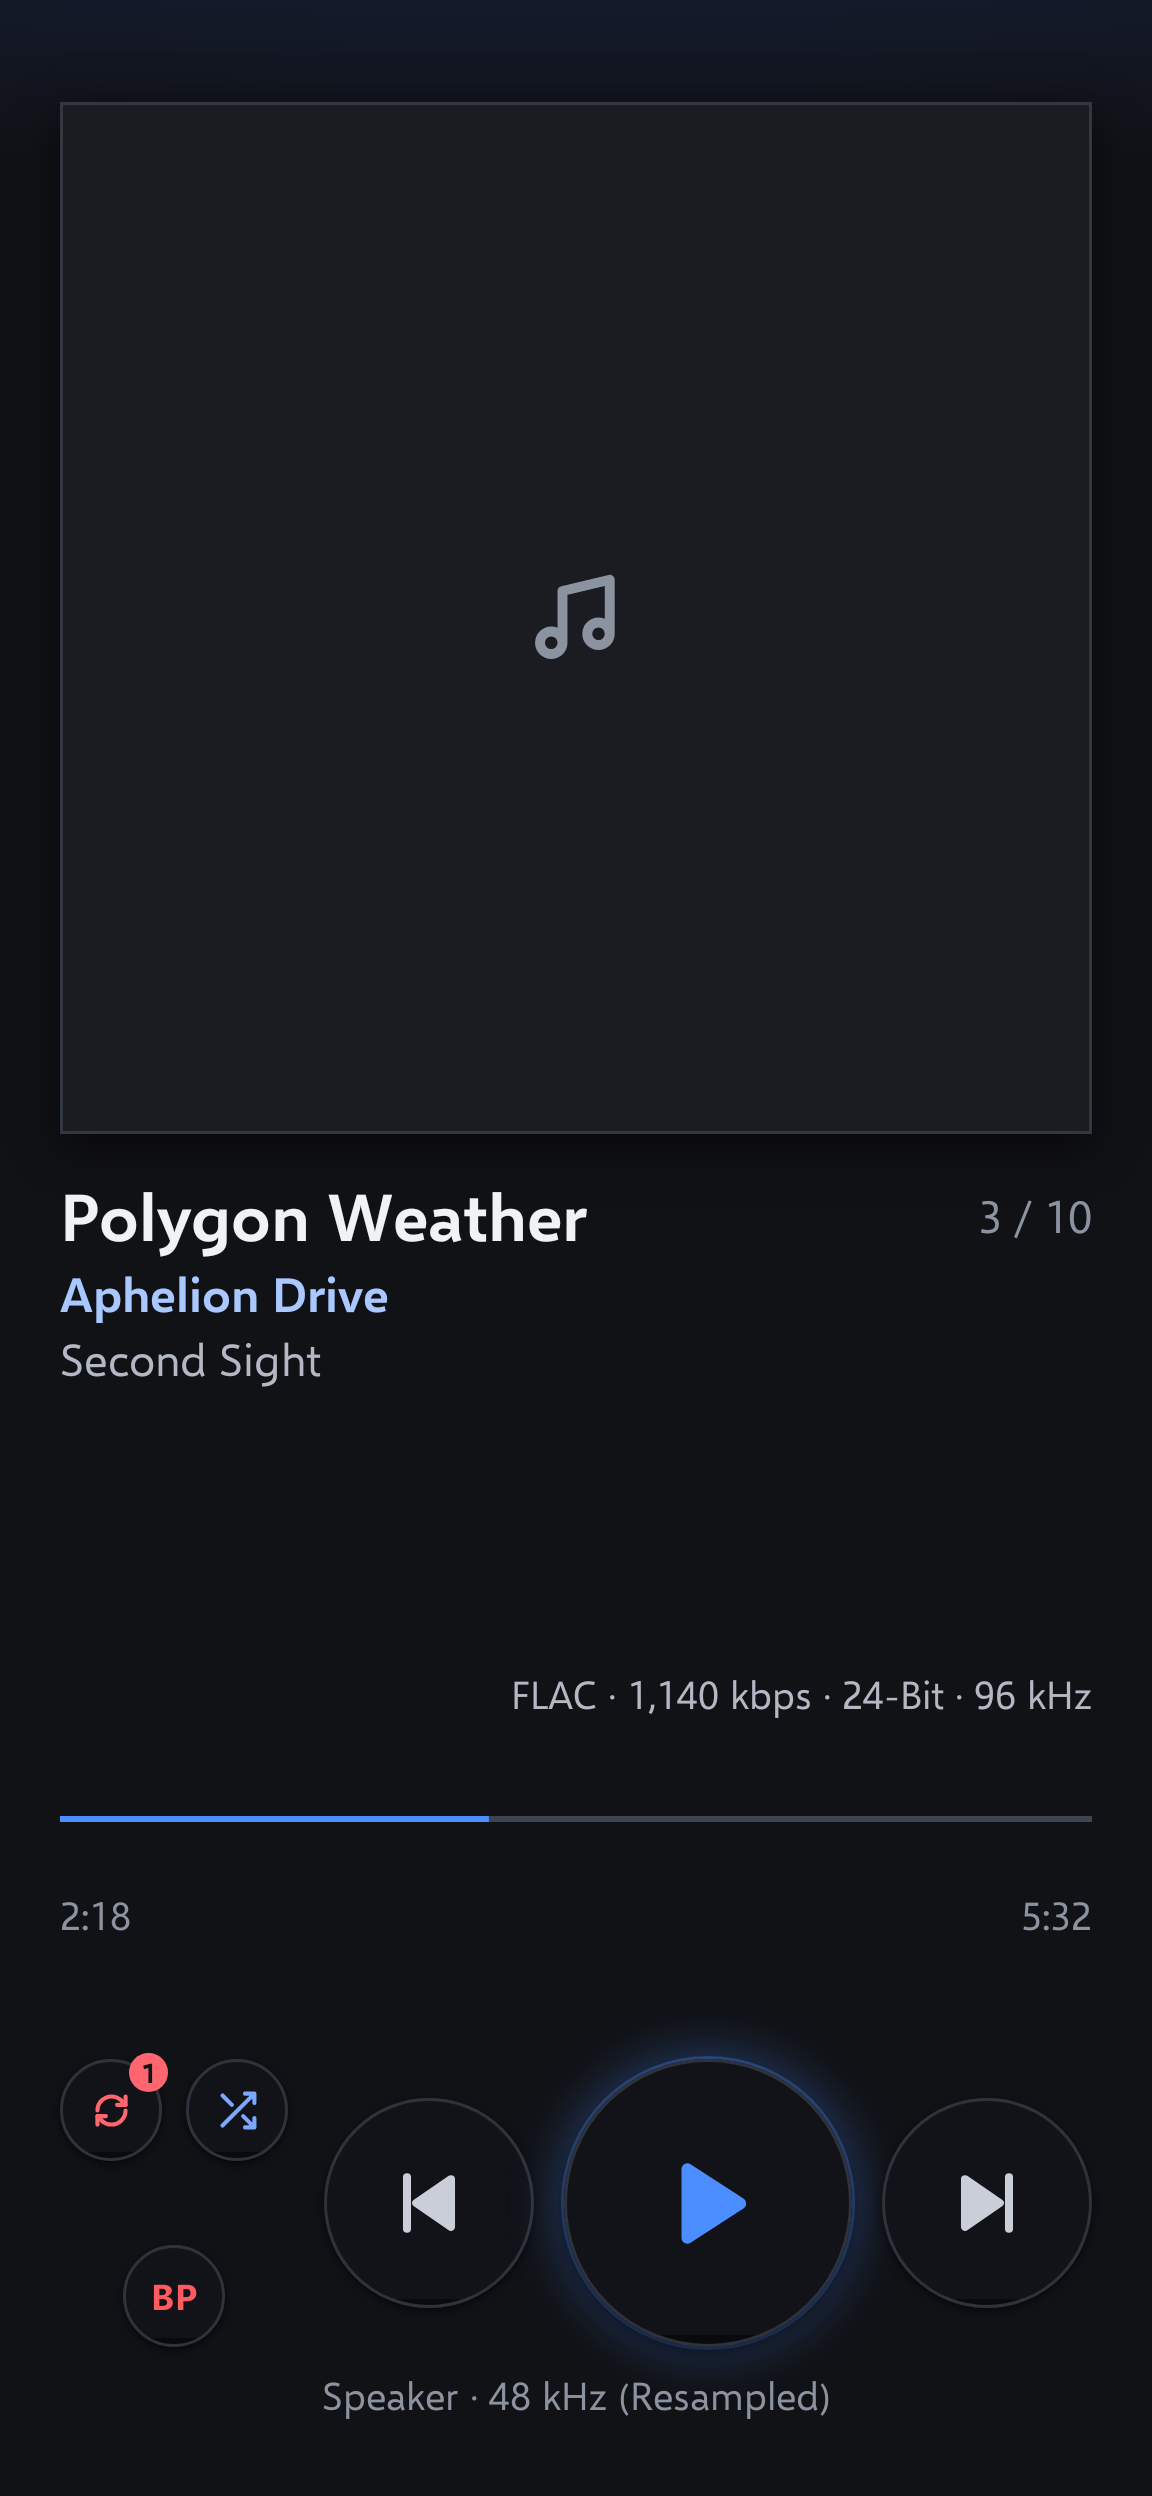
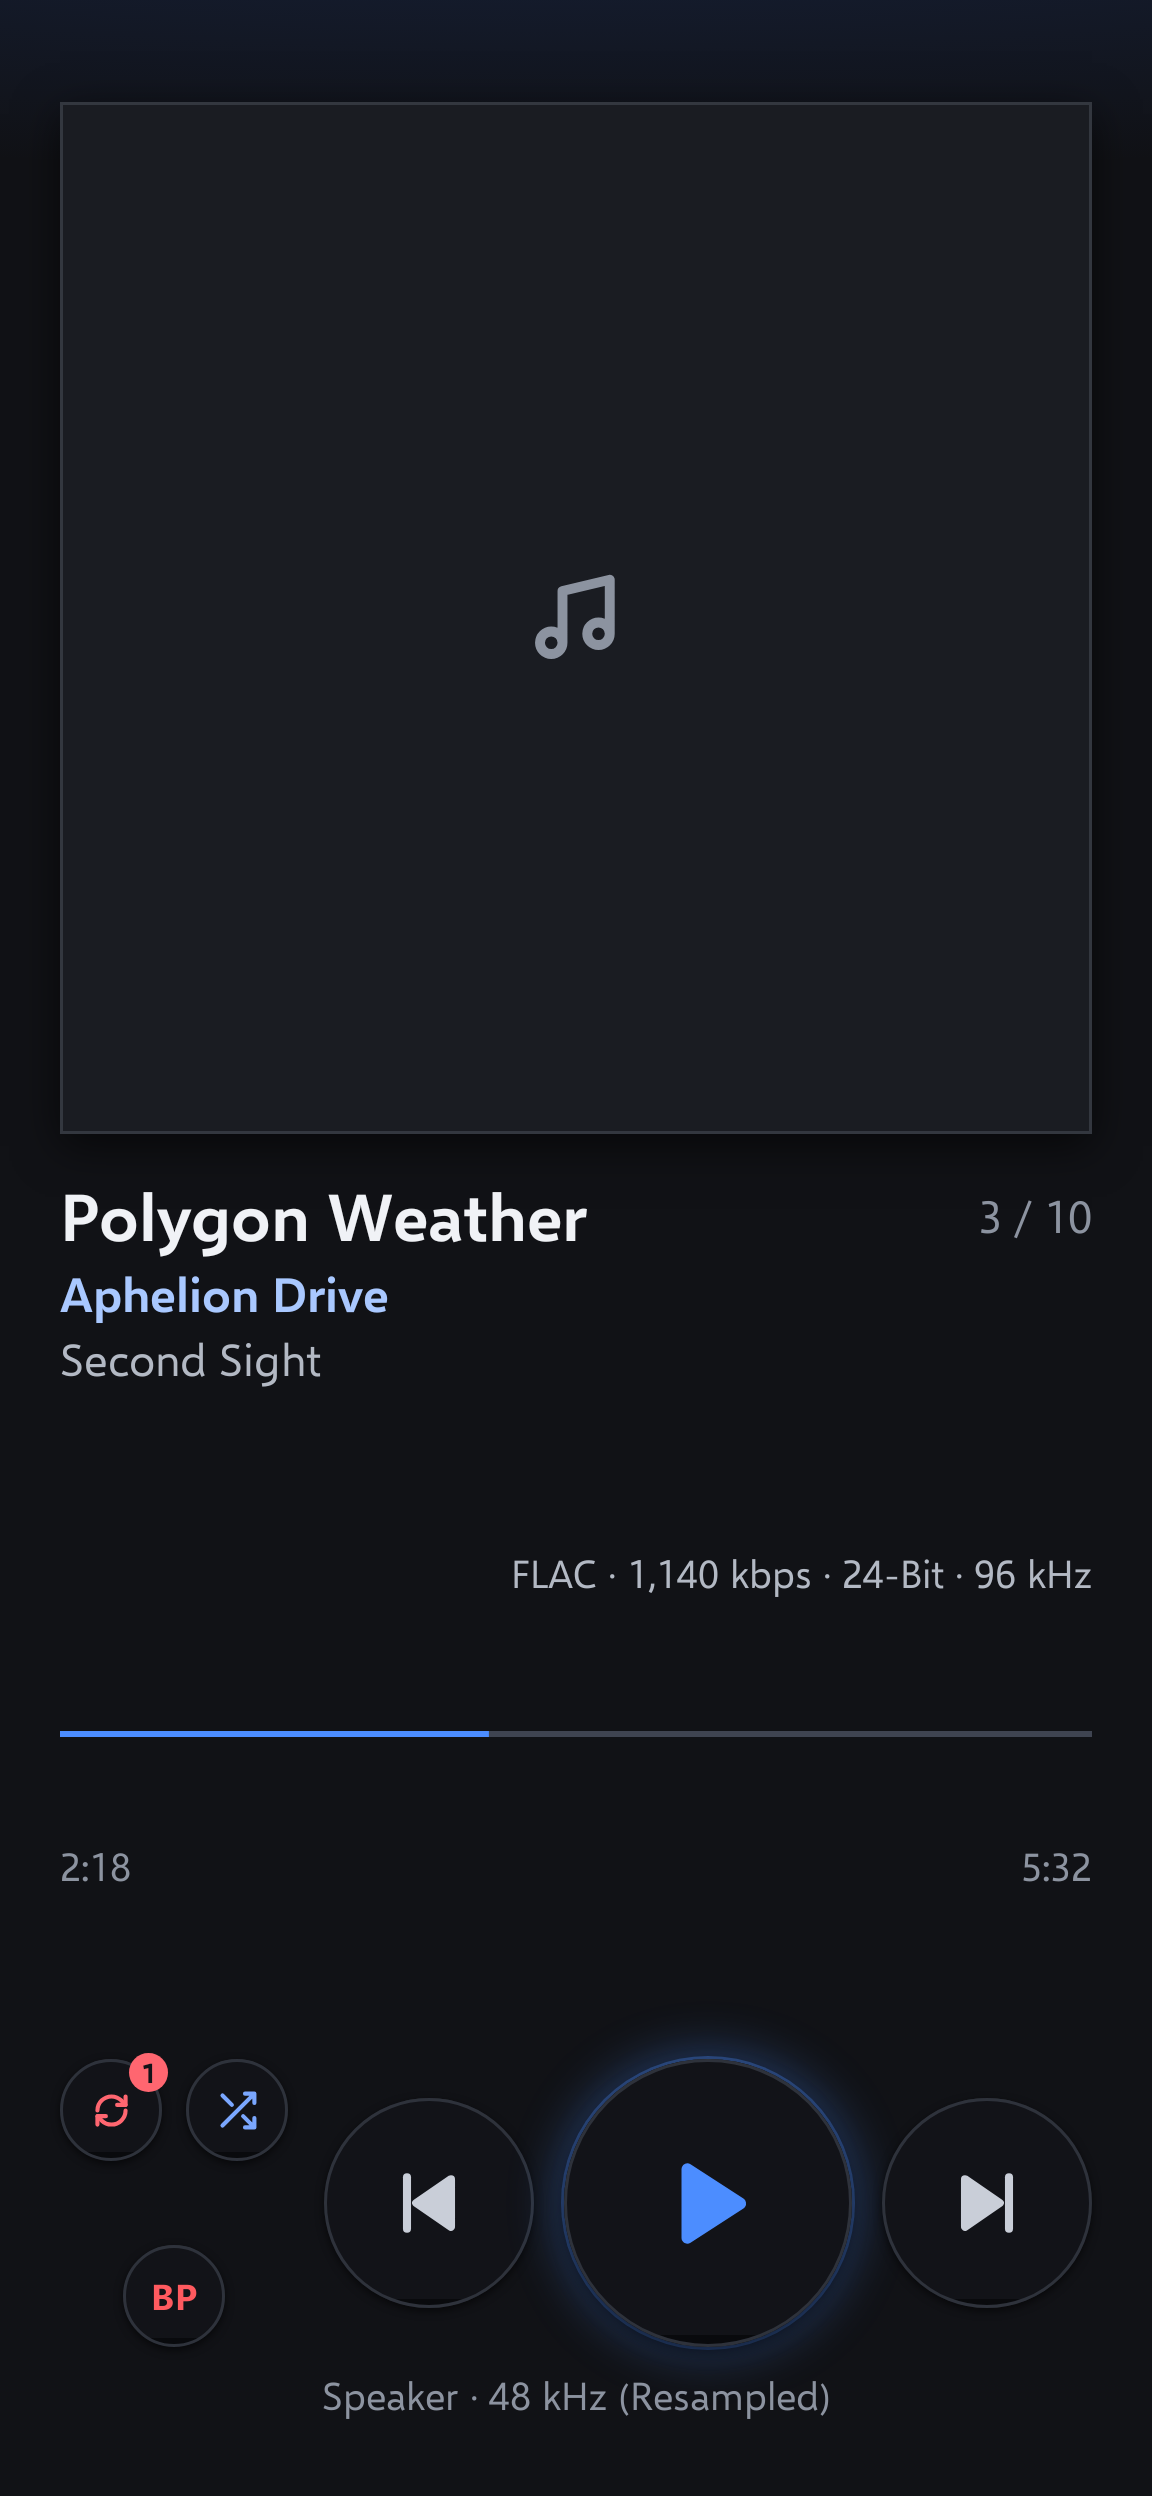
Now Playing on the S24: spread the spare height, grow the waveform
The S24's cover is limited by its width, so the height it can't use
(about 120 dp) all went to the flexible spaces, mostly over the quality
line. That spare height now grows the waveform to 64 dp and evens the
two gaps. It is 0 wherever the height limits the cover, so the M21 is
unchanged (its pictures are pixel-identical).

diff --git a/app/src/main/java/com/mpaulrenlund/audiofool/ui/NowPlayingScreen.kt b/app/src/main/java/com/mpaulrenlund/audiofool/ui/NowPlayingScreen.kt
@@ -106,7 +106,16 @@ fun NowPlayingScreen(nowPlaying: NowPlaying, actions: NowPlayingActions) {
             // The reserve holds artReserveText of text, which grows with Android's font size (session 5: at 1.3 the
             // M21 lost the readout off the bottom).
             val textGrowth = t.dp("nowPlaying.artReserveText") * (LocalDensity.current.fontScale - 1f).coerceAtLeast(0f)
-            val art = minOf(maxWidth - padX * 2, screenHeight - t.dp("nowPlaying.artHeightReserve") - textGrowth)
+            val heightForArt = screenHeight - t.dp("nowPlaying.artHeightReserve") - textGrowth
+            val art = minOf(maxWidth - padX * 2, heightForArt)
+            // Spare height (0.2.3, the user's call): where the width limits the cover (the S24), the height it
+            // can't use. The waveform takes a share and the space below the times grows toward the space above,
+            // so it isn't one gap over the quality line. None on the M21, which stays as it was.
+            val spare = (heightForArt - art).coerceAtLeast(Dp(0f))
+            val waveformGrowth = minOf(spare * t.number("nowPlaying.waveformGrowth.ofSpare").toFloat(), t.dp("nowPlaying.waveformGrowth.max"))
+            val aboveWeight = t.number("nowPlaying.spaceAboveQualityWeight").toFloat()
+            val belowWeight = t.number("nowPlaying.spaceBelowTimesWeight").toFloat()
+            val evenness = (spare / t.dp("nowPlaying.spareEvenAt")).coerceIn(0f, 1f)
 
             Column(Modifier.fillMaxSize()) {
                 SwipeToSkip(track, art, actions) {
@@ -115,12 +124,12 @@ fun NowPlayingScreen(nowPlaying: NowPlaying, actions: NowPlayingActions) {
                     }
                     TitleBlock(nowPlaying, track)
                 }
-                Spacer(Modifier.weight(t.number("nowPlaying.spaceAboveQualityWeight").toFloat()))
+                Spacer(Modifier.weight(aboveWeight))
                 Column(Modifier.padding(horizontal = padX)) {
                     track?.let { Quality(it) }
-                    Seekbar(nowPlaying, actions.seek)
+                    Seekbar(nowPlaying, actions.seek, t.dp("nowPlaying.waveformHeight") + waveformGrowth)
                 }
-                Spacer(Modifier.weight(t.number("nowPlaying.spaceBelowTimesWeight").toFloat()))
+                Spacer(Modifier.weight(belowWeight + (aboveWeight - belowWeight) * evenness))
                 Controls(nowPlaying, actions, screenHeight)
                 Line(
                     nowPlaying.readout,
@@ -285,7 +294,8 @@ private fun Quality(track: Track) {
 }
 
 /**
- * The waveform seekbar (spec 5): full width, `waveformHeight` tall, the track's
+ * The waveform seekbar (spec 5): full width, [height] tall (`waveformHeight`, more
+ * with spare height), the track's
  * waveform as `waveformBars` hard-edged bars centred on the middle line, the
  * played part `slider.seekFill`, the rest `slider.track`, split at the exact
  * place so it glides while playing. Until the waveform is
@@ -294,7 +304,7 @@ private fun Quality(track: Track) {
  * sit under it.
  */
 @Composable
-private fun Seekbar(nowPlaying: NowPlaying, seek: (Long) -> Unit) {
+private fun Seekbar(nowPlaying: NowPlaying, seek: (Long) -> Unit, height: Dp) {
     val t = LocalAppTheme.current
     val duration = nowPlaying.durationMs
     // Read every frame while playing, and only then; the rest of the screen doesn't
@@ -317,7 +327,7 @@ private fun Seekbar(nowPlaying: NowPlaying, seek: (Long) -> Unit) {
         Modifier
             .fillMaxWidth()
             .padding(top = t.dp("nowPlaying.waveformTop"))
-            .height(t.dp("nowPlaying.waveformHeight"))
+            .height(height)
             .pointerInput(duration) {
                 if (duration <= 0) return@pointerInput
                 detectTapGestures { offset -> seek((offset.x / size.width * duration).toLong().coerceIn(0, duration)) }

diff --git a/design/android-spec.md b/design/android-spec.md
@@ -117,11 +117,11 @@ Opens from the mini player, and when a song is tapped (in a list or in Search). 
 
 1. **Art**, square, `nowPlaying.paddingX` from each side, `nowPlaying.artTop` below the status bar. Its side is the smaller of (screen width − 40) and (screen height − `artHeightReserve`), so on the M21 it shrinks to leave the controls room. The reserve is 366 dp since 0.2.2 (426 before): the one-line quality and the shorter controls row gave the M21's cover about 60 dp more (301 dp, from 241), with the title block lower (the user's call). The S24's cover is limited by the width, so it is unchanged. `shadow.headerArt`; no border round a cover (§2, Covers).
 2. **Title** (22/600, `text.heading`), **artist** (16/600, `accent.blue`) and **album** (15, `text.secondary`), left-aligned. The **track count "3 / 10"** (15, `text.muted`) sits right of the title, aligned to its top. There's no Like button.
-3. Flexible space, weight 3.
+3. Flexible space, weight 3. **Spare height** (0.2.3, the user's call): where the width limits the cover (the S24), the height it can't use, screen height − `artHeightReserve` − the cover's side (about 120 dp on the S24, none on the M21). The waveform takes `waveformGrowth.ofSpare` of it (up to `max`), and the space at 7 grows toward weight 3, level with it at `spareEvenAt` dp of spare, so the S24 has two even gaps instead of one over the quality line. With no spare (the M21) nothing changes.
 4. **Quality**, one right-aligned line right above the seekbar (13, `text.secondary`): format, bitrate, bit depth, sample rate, "FLAC · 1,901 kbps · 24-Bit · 48 kHz" (the user's order, 0.2.2; two lines before). Lossy files have no bit depth ("MP3 · 320 kbps · 44.1 kHz"). DSD gives its rate in MHz: "DSD · 5,645 kbps · 1-Bit · 2.8 MHz" (DSD64). Anything not known is left out.
-5. **Waveform seekbar**, full width, 40 dp: the track's waveform as 96 hard-edged bars, played part `slider.seekFill`, the rest `slider.track`. The split falls at the exact place, through the bar being played, so it glides while playing (the desktop's `WaveformView`; 0.2.0, the user's report). Drag or tap to seek. Compute it as the desktop's `Waveform` does, in the background, cached per file. Until it's ready, show a flat bar `waveformFloor` high.
+5. **Waveform seekbar**, full width, 40 dp (64 on the S24, from its spare height; see 3): the track's waveform as 96 hard-edged bars, played part `slider.seekFill`, the rest `slider.track`. The split falls at the exact place, through the bar being played, so it glides while playing (the desktop's `WaveformView`; 0.2.0, the user's report). Drag or tap to seek. Compute it as the desktop's `Waveform` does, in the background, cached per file. Until it's ready, show a flat bar `waveformFloor` high.
 6. **Elapsed** left, **total** right (13, `text.muted`).
-7. Flexible space, weight 1.
+7. Flexible space, weight 1 (up to 3 with spare height; see 3).
 8. **Controls row**: on the left, three 34 dp round buttons: **Repeat** and **Shuffle** side by side, 8 dp apart, their tops level with Play/Pause's top, and **BP** centred under them, its bottom level with Play/Pause's bottom (the user's call, 0.2.2; a column of three before). On the right, for a right thumb, **Previous**, **Play/Pause** and **Next**, centred on Play/Pause. Their size follows the screen height (`nowPlaying.skipButton`, `playButton`, `transportGap`: a fraction of the screen height, between a min and max). That gives 70 / 96 / 22 dp on the S24 and about 57 / 78 / 17 dp on the M21. At least `modeToTransportGap` (12 dp) lies between the two groups; where that doesn't fit, the transport's gaps shrink (the S24: about 10 dp).
 9. **Output readout**, centred (13, `text.muted`), e.g. "Speaker · 48 kHz (Resampled)" (§6.3).
 

diff --git a/design/progress.md b/design/progress.md
@@ -37,6 +37,23 @@ The user made these while the mockups were designed (October 2026). The spec alr
 
 ## Decisions made for the build
 
+0.2.3 (2026-10-26), not yet released:
+
+- **The S24's empty space on Now Playing** (the user: "a little too much empty space on the
+  s24u"; the M21 "looks great"). The S24's cover is limited by its width, so the height it
+  can't use, about 120 dp, all went to the flexible spaces, three quarters of it over the
+  quality line. Of the options offered (spread it evenly; grow the waveform; a "Next:" line),
+  the user chose the first two and "leave the M21 as it is". Both go by the **spare height**:
+  screen height − `artHeightReserve` − the font growth − the cover's side, which is exactly
+  0 wherever the height limits the cover (the M21). The waveform grows by 0.2 of it, up to
+  24 dp (`waveformGrowth`): 64 dp on the S24. The space below the times grows from weight 1
+  toward the space above's 3, level with it at 96 dp of spare (`spareEvenAt`): on the S24
+  the gaps over the quality line and over the controls are now about 57 dp each (from about
+  97 and 42). Spec 5 updated. Tokens added to `mobile-tokens.json` → `nowPlaying`.
+- **Checked:** `:core:test`, `:app:testDebugUnitTest`, ThemeLab re-recorded: only the 12 S24
+  Now Playing pictures changed (both themes; font size 1.3 keeps the readout on screen); every
+  M21 picture is pixel-identical.
+
 0.2.2 (2026-10-25), released as pre-release [`v0.2.2`](https://github.com/mpaulrenlund/AudioFool-Android/releases/tag/v0.2.2) ("AudioFool 0.2.2", versionCode 15):
 
 - **Statistics cleaned up** (the user asked; my recommendation, their call): Statistics shows
@@ -454,6 +471,13 @@ Session 1:
 
 ## To test on the S24
 
+### 0.2.3 (Now Playing's spacing)
+
+Not yet released.
+
+- [ ] **Now Playing's spacing:** no large gap over the quality line; the space over the
+  seekbar and over the controls about even; a taller waveform, still easy to drag.
+
 ### 0.2.2 (covers, the quality line, the readout, the controls, Debug)
 
 Released 2026-10-25 as pre-release [`v0.2.2`](https://github.com/mpaulrenlund/AudioFool-Android/releases/tag/v0.2.2)
@@ -812,6 +836,14 @@ Started early (session 1, `v0.0.1`): the M21 has the SD card slot, and the full 
 - [ ] **SD card out.** With the app open, eject or remove the card: the counts stay the same, and the LIBRARY line says "Unavailable: SD card · Music (N tracks kept)". Open the app with the card still out: the same. Put it back: "Up to date", nothing removed.
 
 ## Session notes
+
+### 0.2.3 — Now Playing's spacing on the S24 (2026-10-26)
+
+**Changed:** `NowPlayingScreen.kt` (the spare height, `Seekbar`'s height), `mobile-tokens.json`
+(`waveformGrowth`, `spareEvenAt`), spec 5, the S24 Now Playing pictures.
+
+**Verified:** `:core:test`, `:app:testDebugUnitTest`, recorded pictures (M21 unchanged). Not
+yet built as a release or seen on the emulator.
 
 ### 0.2.2 — a Debug screen; covers, the quality line, the readout (2026-10-25)
 

diff --git a/HANDOFF.md b/HANDOFF.md
@@ -1,6 +1,6 @@
 # AudioFool for Android — session handoff
 
-Updated 2026-10-25, after 0.2.2. Read this with `README.md` (how the app works) and
+Updated 2026-10-26, after 0.2.2 and the S24 spacing change. Read this with `README.md` (how the app works) and
 `design/progress.md` (every decision, and the lists of what to test on each device). The
 spec is `design/android-spec.md`.
 
@@ -35,6 +35,13 @@ spec is `design/android-spec.md`.
   426); Statistics' Playback and Debug panels on their own **Debug screen** (Statistics' last
   row), without the FiiO signals and Outputs rows. Checked in ThemeLab and on the emulator,
   **not yet on a phone**.
+
+### Since 0.2.2 (on `main`, not released)
+
+- **Now Playing's spacing on the S24** (2026-10-26, the user's call): the height the S24's
+  width-limited cover can't use (the "spare height", 0 on the M21) grows the waveform to 64 dp
+  and evens the two flexible gaps. M21 pictures unchanged. Goes into **0.2.3** with whatever
+  the user reports next; release only when they say.
 
 ### Where things stand
 
